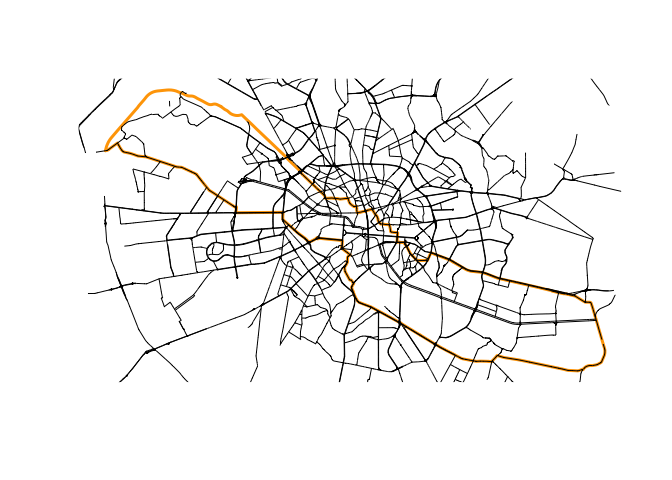
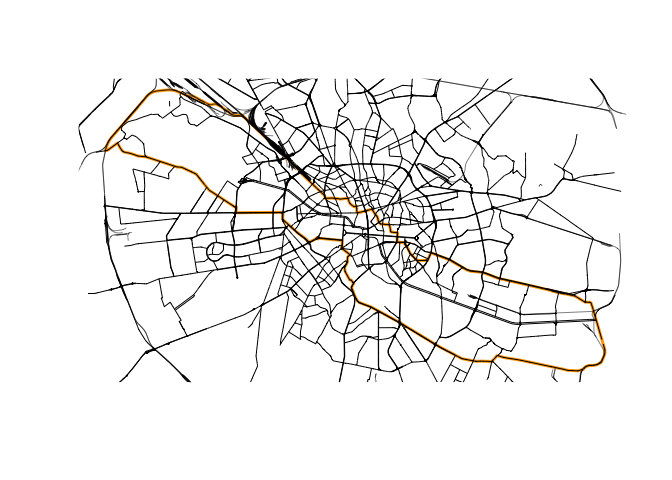
Add railways to README

diff --git a/README.md b/README.md
@@ -46,12 +46,14 @@ epsg_code <- 32635
 # Get base layer for plotting
 bb <- get_osm_bb(city_name)
 streets <- get_osm_streets(bb, epsg_code)$geometry
+railways <- get_osm_railways(bb, epsg_code)$geometry
 
 # Delineate river corridor
 corridor <- delineate(city_name, river_name)$corridor
 
 # Plot results
 plot(corridor, border = "orange", lwd = 3)
+plot(railways, add = TRUE, lwd = 0.5)
 plot(streets, add = TRUE)
 ```
 
